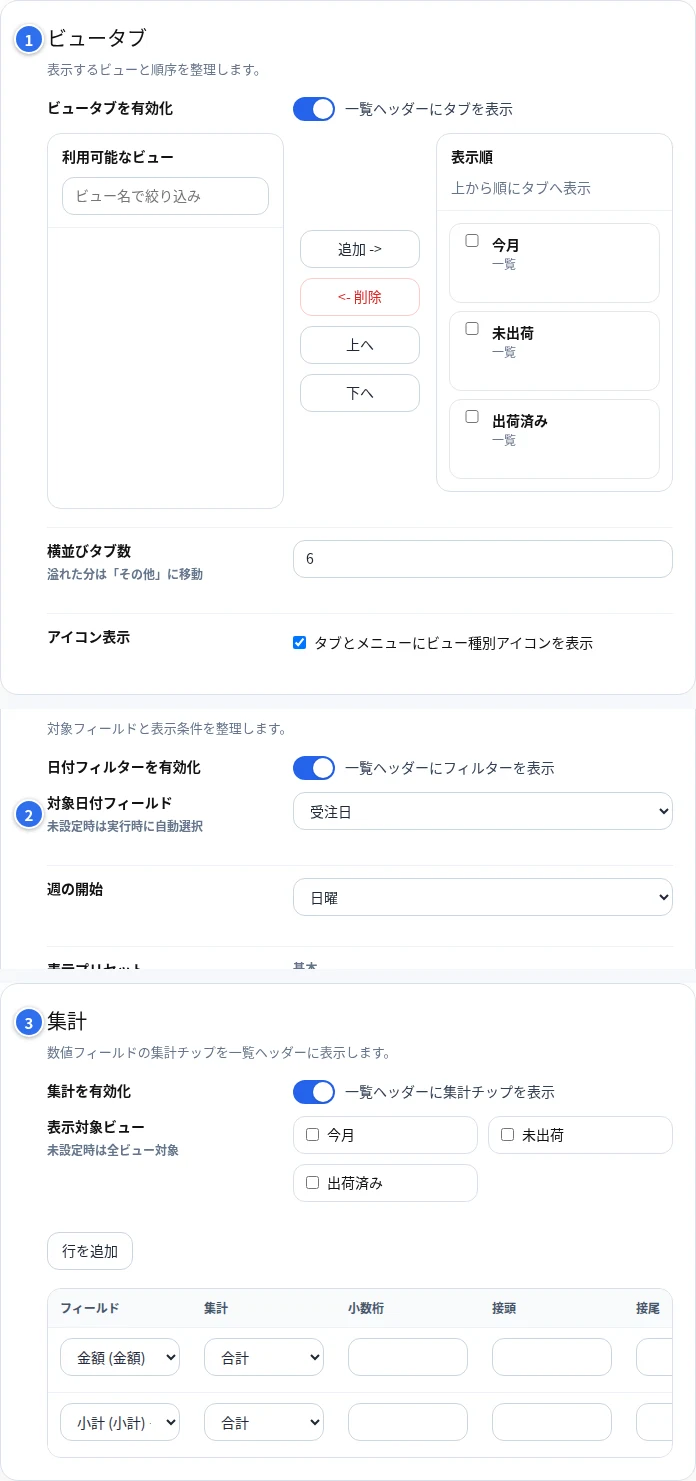
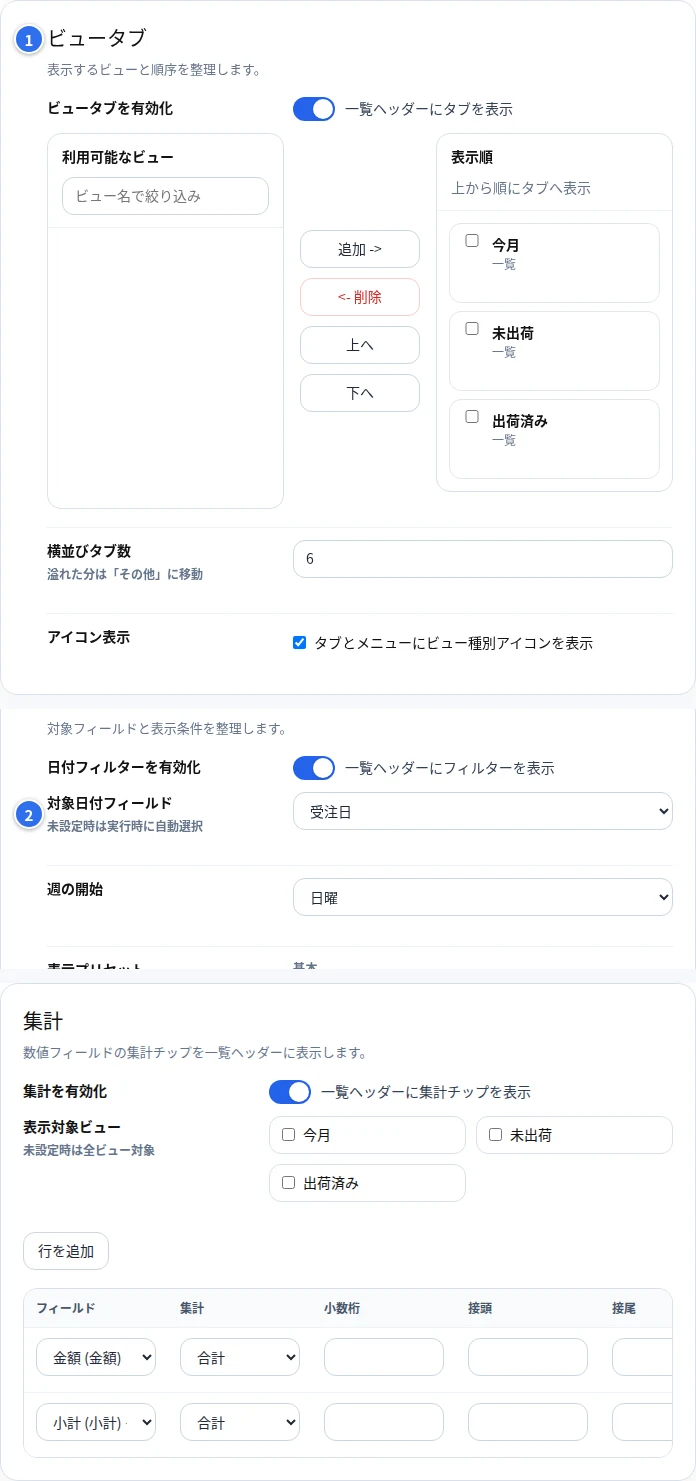
kintone 商品ページ v2 の手直し: ListKit の細い画像を 2:1 に切り直し・設定は 2 か所(集計は任意の 1 行)・条件分岐の比較に「説明図」・Excel帳票マニュアルから「旧来」を外す
Claude-Session: https://claude.ai/code/session_013bXvrHGvCwXNN24LwfB7Zv

diff --git a/docs/kintone/kintone-listkit/index.html b/docs/kintone/kintone-listkit/index.html
@@ -67,7 +67,7 @@
     <h2 class="screens__title">画面</h2>
     <div class="screens__grid">
       <figure class="screen">
-        <img src="media/screen-tabs.webp" width="678" height="162" loading="lazy" decoding="async" alt="一覧上部のビュータブ。今月・未出荷・出荷済みのタブがアイコン付きで並んでいる画面" data-zoom>
+        <img src="media/screen-tabs.webp" width="800" height="400" loading="lazy" decoding="async" alt="一覧上部のビュータブ。今月・未出荷・出荷済みのタブがアイコン付きで並び、下にその月の一覧が表示されている画面" data-zoom>
         <figcaption>タブ: ビューの並びとアイコン表示を一覧の上に。</figcaption>
       </figure>
       <figure class="screen">
@@ -75,7 +75,7 @@
         <figcaption>期間のプリセット: 今週・今月・四半期・年から選ぶだけ。</figcaption>
       </figure>
       <figure class="screen">
-        <img src="media/screen-totals.webp" width="972" height="72" loading="lazy" decoding="async" alt="一覧上部の集計チップと件数表示。金額の合計と表示件数が並んでいる画面" data-zoom>
+        <img src="media/screen-totals.webp" width="820" height="410" loading="lazy" decoding="async" alt="一覧上部の集計チップと件数表示。金額の合計と表示件数の下に、受注日・出荷予定日・状態・金額の列が並んでいる画面" data-zoom>
         <figcaption>合計と件数の表示: 表示中の合計金額と件数が一覧の上に出る。</figcaption>
       </figure>
       <figure class="screen">
@@ -123,16 +123,16 @@
   </section>
 
   <section class="card setup">
-    <h2>設定は 3 か所だけ</h2>
+    <h2>設定は 2 か所だけ</h2>
     <div class="setup__body">
-      <figure class="setup__shot"><img src="media/setup.webp" width="696" height="1481" loading="lazy" decoding="async" data-zoom alt="PlugBits ListKitの設定画面。ビュータブ・日付フィルター・集計の3つのパネルに番号を振って示している"></figure>
+      <figure class="setup__shot"><img src="media/setup.webp" width="696" height="1481" loading="lazy" decoding="async" data-zoom alt="PlugBits ListKitの設定画面。ビュータブと対象日付フィールドの2つのパネルに番号を振って示している。集計パネルも写っているが番号はない"></figure>
       <div>
         <p class="setup__prep">期間で絞るには、日付か日時のフィールドが1つあれば足ります。</p>
         <ol class="setup__steps">
           <li>タブに出すビューと並び</li>
           <li>期間に使う日付・日時フィールド</li>
-          <li>(任意)上に出す数値・計算フィールド</li>
         </ol>
+        <p class="setup__prep">(任意)上に出す集計: 数値・計算フィールドを選べます。</p>
         <p class="setup__more">詳しい手順は <a href="/products/listkit-manual.html">マニュアル</a> へ。</p>
       </div>
     </div>

diff --git a/docs/kintone/kintone-rule-builder/index.html b/docs/kintone/kintone-rule-builder/index.html
@@ -88,7 +88,7 @@
   <section class="compare">
     <h2 class="compare__title">同じ条件。読めるのは右。</h2>
     <img src="media/compare.webp" width="880" height="244" loading="lazy" decoding="async" alt="左は計算フィールドに書いた3段のIFの入れ子の数式、右は同じ条件を判定ルール画面の読み上げ文3行で表した比較画像" data-zoom>
-    <p class="compare__caption">左=計算フィールドのIFの入れ子(3段)、右=同じ条件を画面のルール3行で。</p>
+    <p class="compare__caption">左=計算フィールドのIFの入れ子(3段・計算式の例(説明図))、右=同じ条件を画面のルール3行で。</p>
   </section>
 
   <section class="how">
